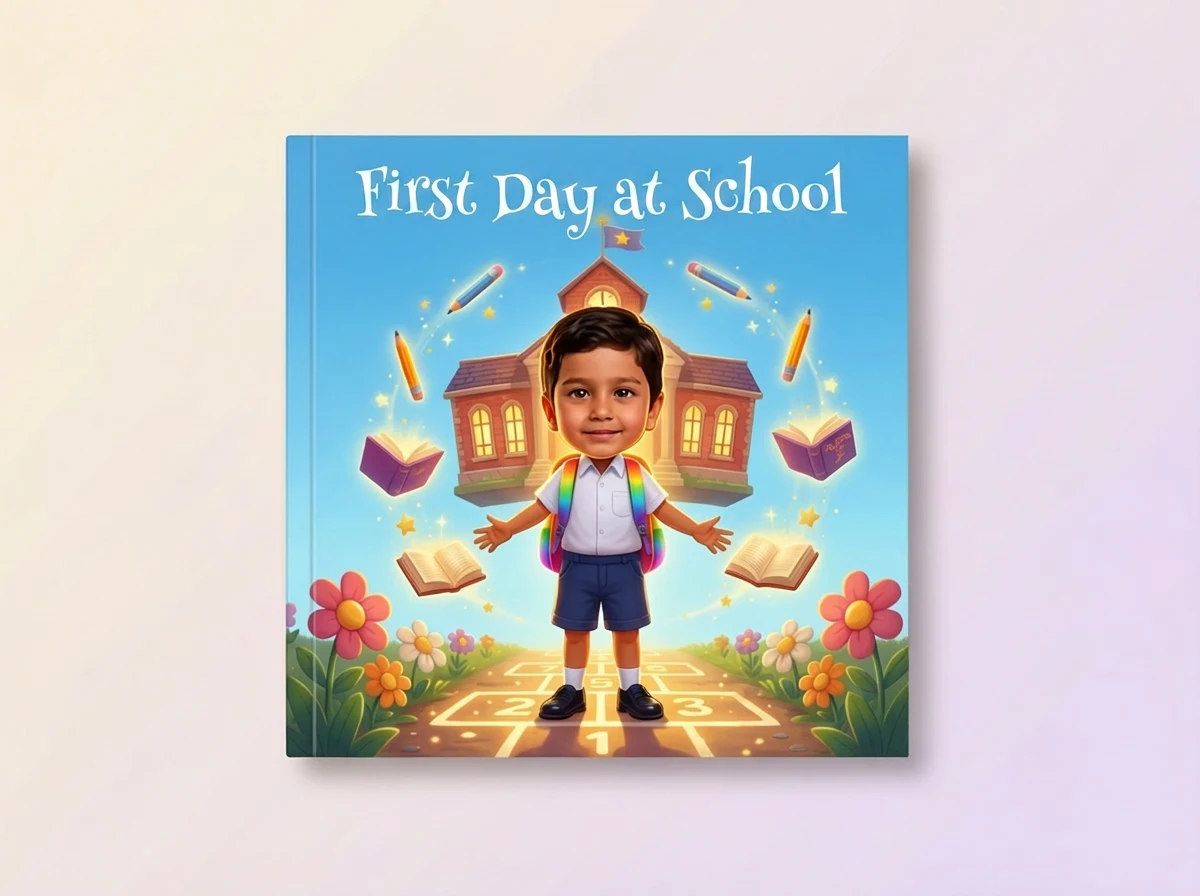
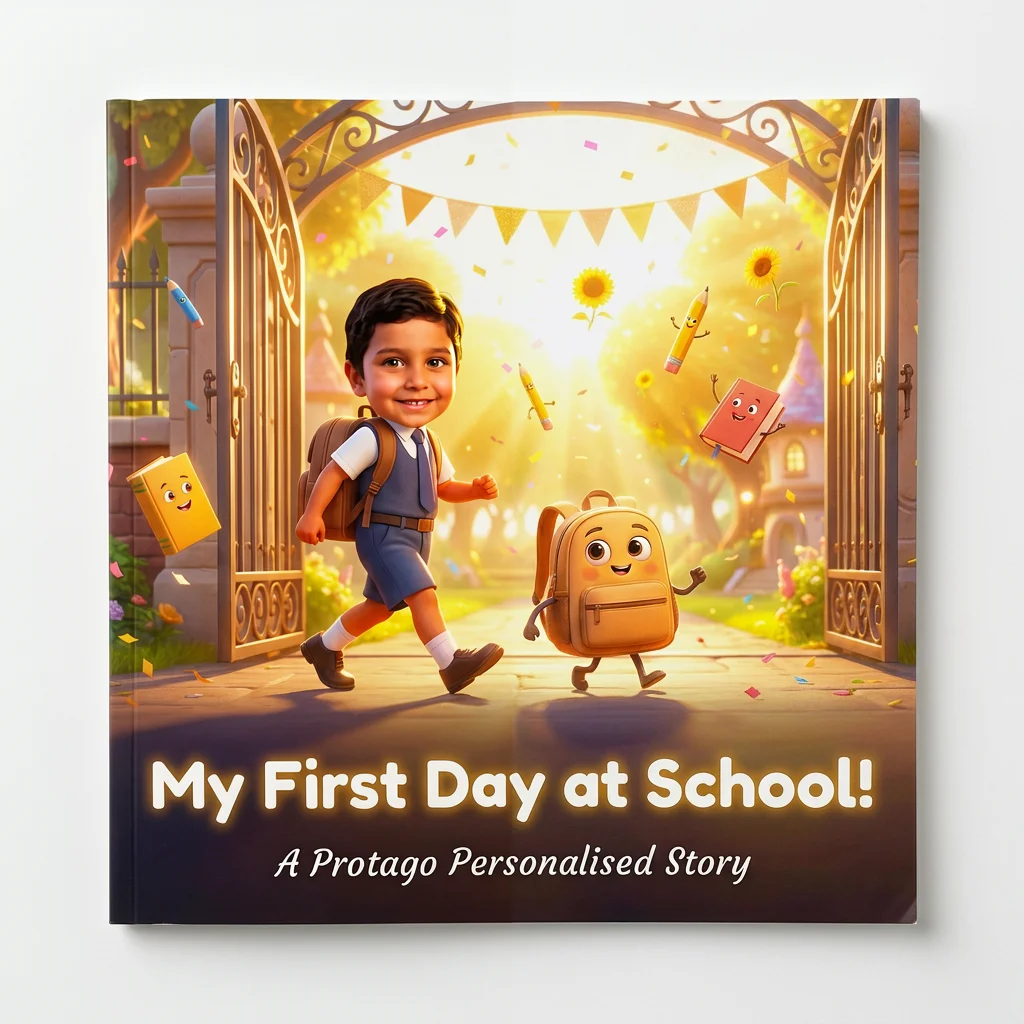
Update hero face swap animation with new faceswap mockups for 4 themes

diff --git a/src/pages/BrochurePage.tsx b/src/pages/BrochurePage.tsx
@@ -113,14 +113,18 @@ const FACE_SCENE_SAMPLES = [
 const FACE_SIZE_CSS = 'clamp(70px, 18vw, 140px)';
 
 const HERO_FACE_SLIDES = [
-  { slug: 'bedtime-routines',  key: 'boy_1',  face: '/faces/face_boy_1.webp',  label: 'Bedtime Routines' },
-  { slug: 'bedtime-routines',  key: 'girl_1', face: '/faces/face_girl_1.webp', label: 'Bedtime Routines' },
-  { slug: 'colours-shapes',    key: 'boy_1',  face: '/faces/face_boy_1.webp',  label: 'Colours & Shapes' },
-  { slug: 'colours-shapes',    key: 'girl_1', face: '/faces/face_girl_1.webp', label: 'Colours & Shapes' },
-  { slug: 'financial-literacy',key: 'boy_1',  face: '/faces/face_boy_1.webp',  label: 'Financial Literacy' },
-  { slug: 'financial-literacy',key: 'girl_1', face: '/faces/face_girl_1.webp', label: 'Financial Literacy' },
-  { slug: 'first-day-school',  key: 'boy_1',  face: '/faces/face_boy_1.webp',  label: 'First Day at School' },
-  { slug: 'first-day-school',  key: 'girl_1', face: '/faces/face_girl_1.webp', label: 'First Day at School' },
+  { slug: 'bedtime-magic',   key: 'boy_1',  face: '/faces/face_boy_1.webp',  label: 'Bedtime Magic' },
+  { slug: 'bedtime-magic',   key: 'boy_2',  face: '/faces/face_boy_2.webp',  label: 'Bedtime Magic' },
+  { slug: 'bedtime-magic',   key: 'girl_1', face: '/faces/face_girl_1.webp', label: 'Bedtime Magic' },
+  { slug: 'first-day-school',key: 'boy_1',  face: '/faces/face_boy_1.webp',  label: 'First Day at School' },
+  { slug: 'first-day-school',key: 'boy_2',  face: '/faces/face_boy_2.webp',  label: 'First Day at School' },
+  { slug: 'first-day-school',key: 'girl_1', face: '/faces/face_girl_1.webp', label: 'First Day at School' },
+  { slug: 'growth-mindset',  key: 'boy_1',  face: '/faces/face_boy_1.webp',  label: 'Growth Mindset' },
+  { slug: 'growth-mindset',  key: 'boy_2',  face: '/faces/face_boy_2.webp',  label: 'Growth Mindset' },
+  { slug: 'growth-mindset',  key: 'girl_1', face: '/faces/face_girl_1.webp', label: 'Growth Mindset' },
+  { slug: 'potty-training',  key: 'boy_1',  face: '/faces/face_boy_1.webp',  label: 'Potty Training' },
+  { slug: 'potty-training',  key: 'boy_2',  face: '/faces/face_boy_2.webp',  label: 'Potty Training' },
+  { slug: 'potty-training',  key: 'girl_1', face: '/faces/face_girl_1.webp', label: 'Potty Training' },
 ];
 
 function HeroFaceSwapAnimation() {
